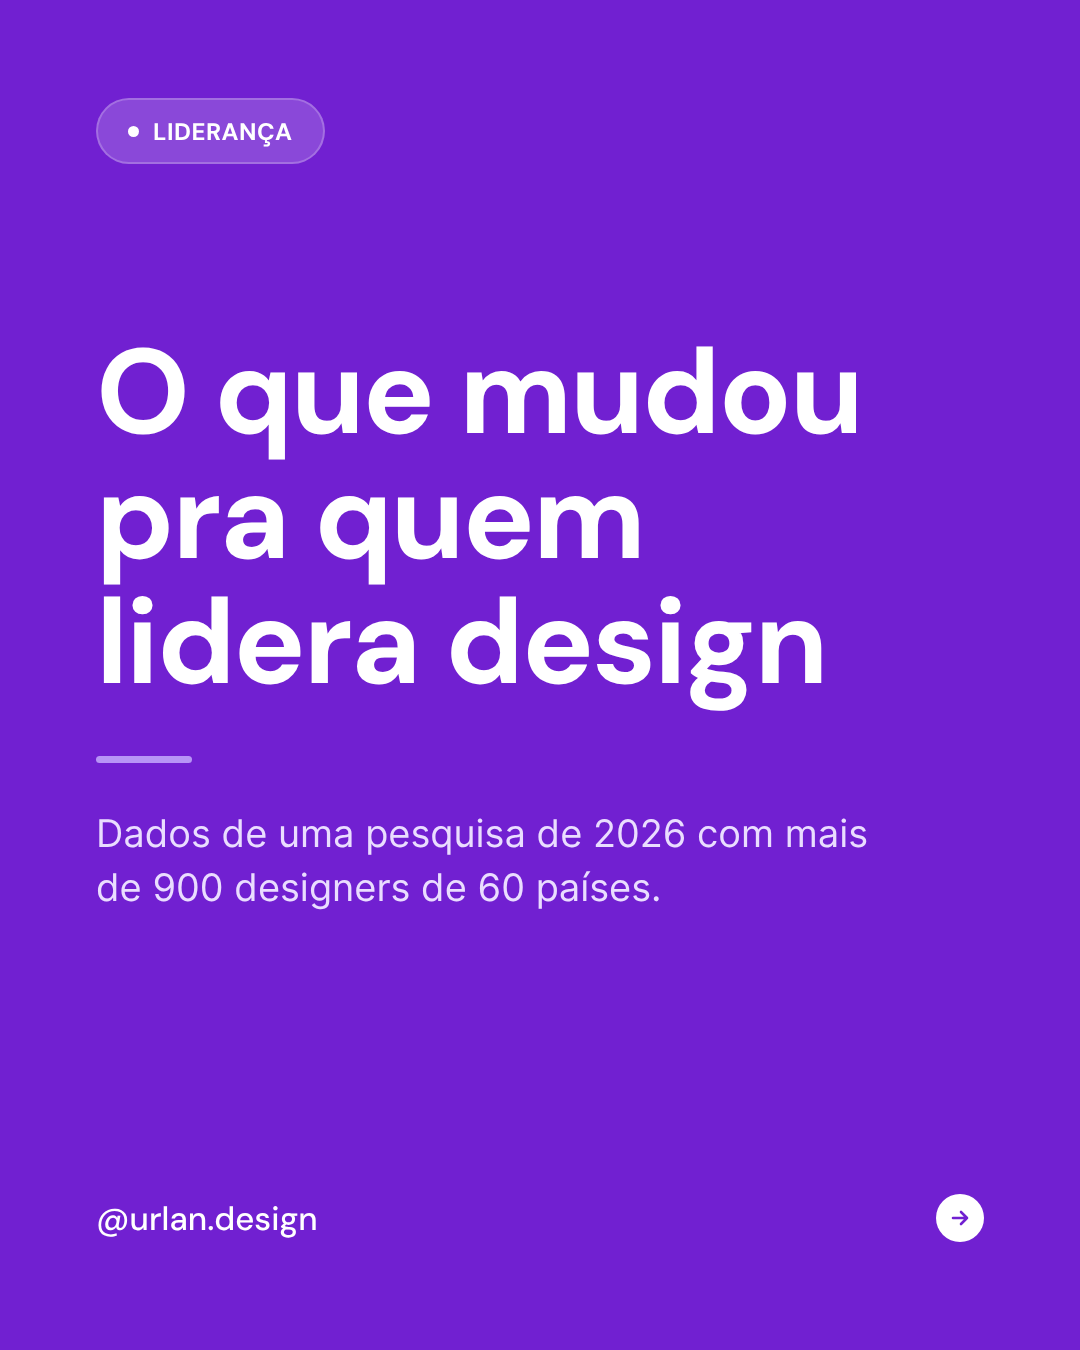
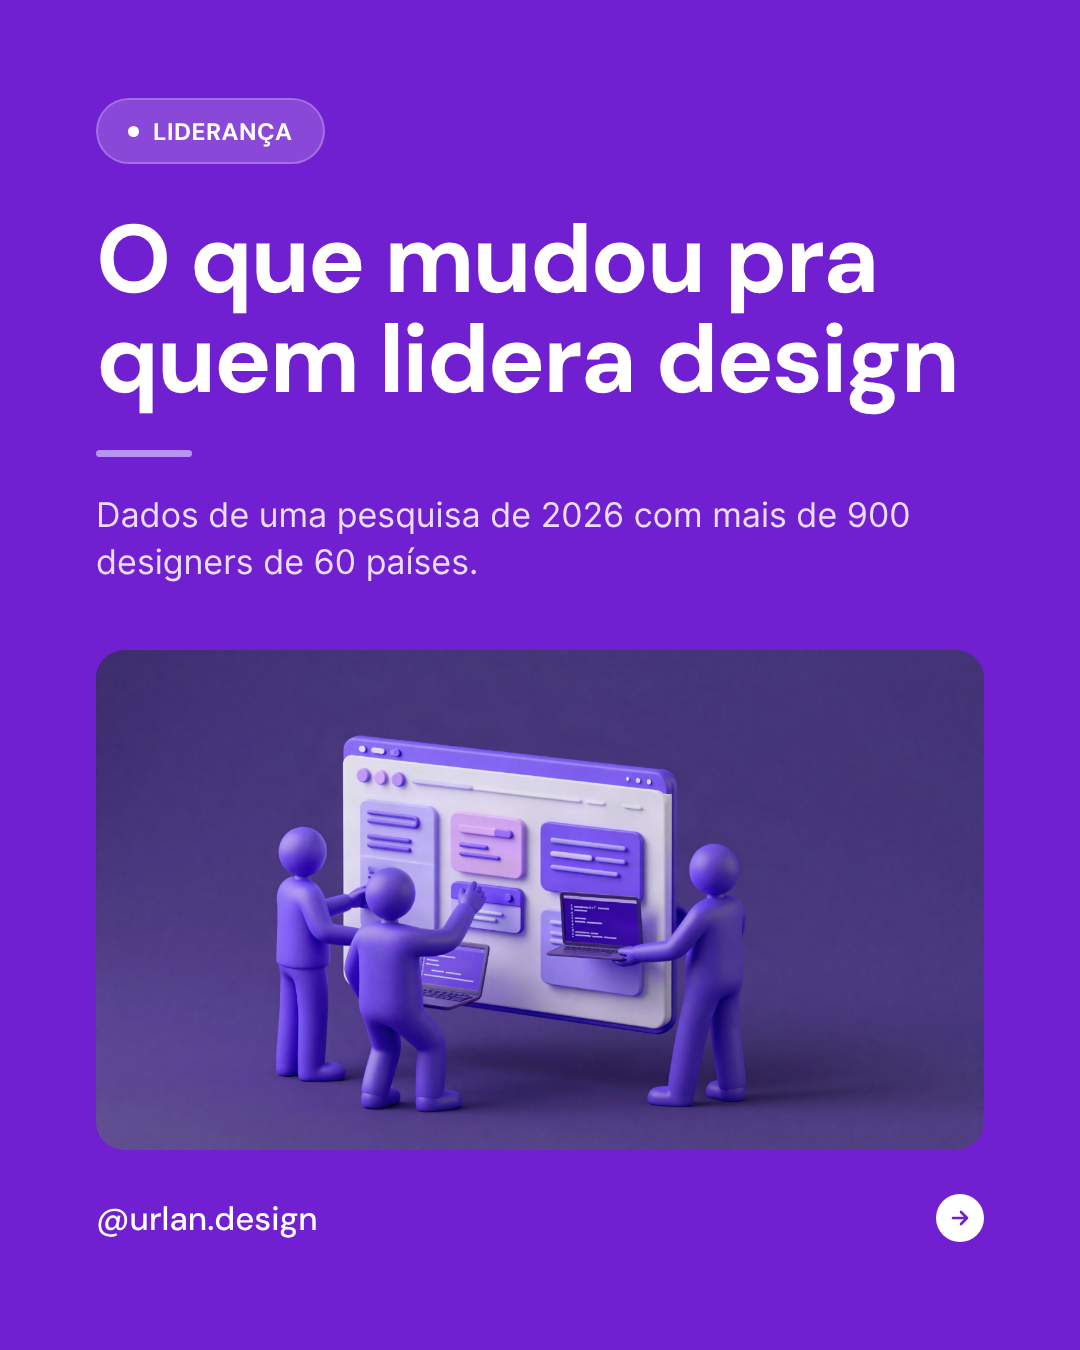
Template: imagem opcional na capa; capa ilustrada do post de liderança
Claude-Session: https://claude.ai/code/session_01DwYVZ4p9qWAPLeHrrQbmUv

diff --git a/template/render.py b/template/render.py
@@ -60,16 +60,29 @@ def e(t):
     return html.escape(t or "")
 
 
-def cover(p):
+def cover(p, folder):
     c = p["cover"]
-    return f"""
-<div class="s" style="background:{PURPLE};color:#fff">
-  <div class="pill" style="background:rgba(255,255,255,.18);border:2px solid rgba(255,255,255,.22);color:#fff"><i></i>{e(p['tag'])}</div>
+    img = c.get("image")
+    if img:
+        # Capa com imagem: título menor e mais alto, imagem em bloco arredondado acima do rodapé.
+        src = (folder / img).as_uri()
+        text_block = f"""
+  <div style="position:absolute;top:210px;left:96px;right:110px">
+    <h1 class="h" style="font-size:96px;line-height:1.04">{e(c['title'])}</h1>
+    <div class="rule" style="background:#B794F6;margin:40px 0 34px"></div>
+    <p style="font-size:34px;line-height:1.4;color:#EADDFF;max-width:820px">{e(c.get('subtitle'))}</p>
+  </div>
+  <img src="{src}" alt="" style="position:absolute;left:96px;right:96px;width:888px;top:650px;height:500px;object-fit:cover;object-position:center;border-radius:28px">"""
+    else:
+        text_block = f"""
   <div style="position:absolute;top:330px;left:96px;right:110px">
     <h1 class="h" style="font-size:120px;line-height:1.04">{e(c['title'])}</h1>
     <div class="rule" style="background:#B794F6;margin:52px 0 44px"></div>
     <p style="font-size:38px;line-height:1.4;color:#EADDFF;max-width:780px">{e(c.get('subtitle'))}</p>
-  </div>
+  </div>"""
+    return f"""
+<div class="s" style="background:{PURPLE};color:#fff">
+  <div class="pill" style="background:rgba(255,255,255,.18);border:2px solid rgba(255,255,255,.22);color:#fff"><i></i>{e(p['tag'])}</div>{text_block}
   <div class="foot" style="color:#fff"><span>@urlan.design</span>
     <span class="arrow" style="background:#fff">{arrow_svg(PURPLE)}</span></div>
 </div>"""
@@ -117,7 +130,7 @@ def closing(p):
 def main(folder):
     folder = pathlib.Path(folder).resolve()
     p = json.loads((folder / "post.json").read_text())
-    pages = [cover(p)] + [content(p, i, s) for i, s in enumerate(p["slides"], 1)] + [closing(p)]
+    pages = [cover(p, folder)] + [content(p, i, s) for i, s in enumerate(p["slides"], 1)] + [closing(p)]
     head = f"<!doctype html><html lang='pt-BR'><head><meta charset='utf-8'><style>{font_faces()}{BASE_CSS}</style></head><body>"
     tmp = folder / "_render.html"
     with sync_playwright() as pw:
